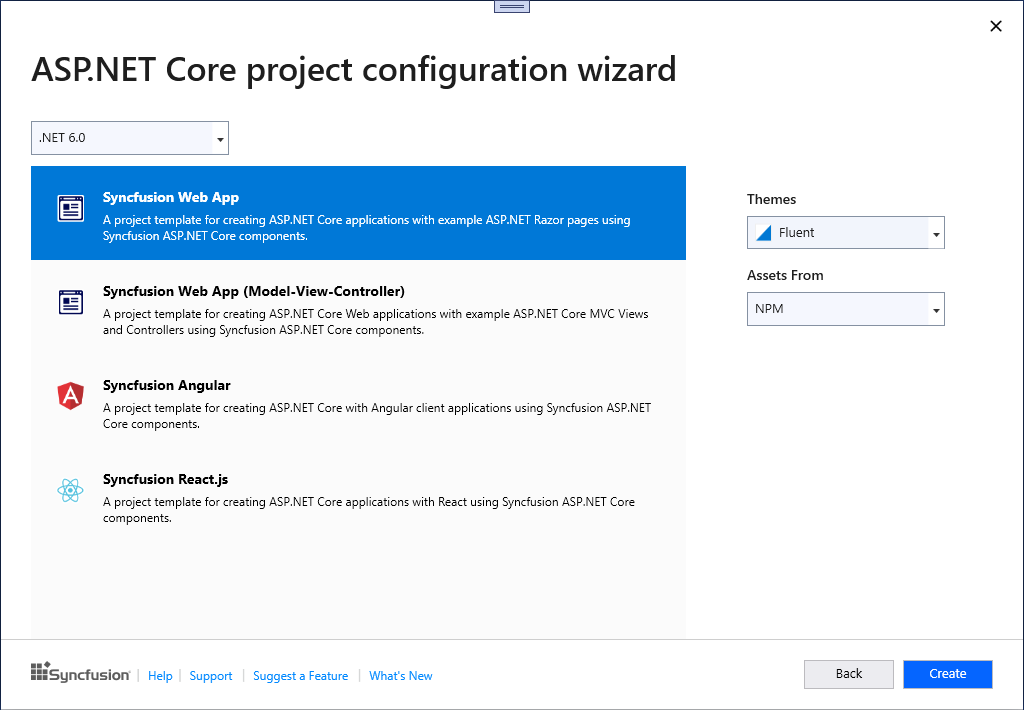
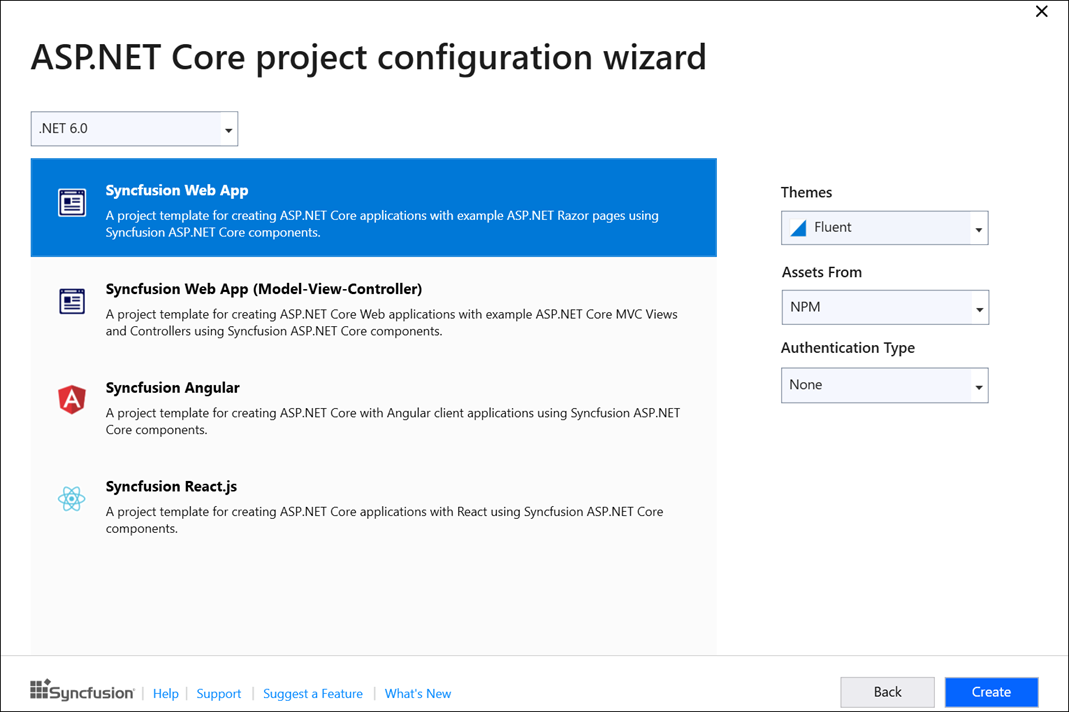
EXT-6719

diff --git a/ej2-asp-core-mvc/EJ2_ASP.NETCORE/visual-studio-integration/create-project.md b/ej2-asp-core-mvc/EJ2_ASP.NETCORE/visual-studio-integration/create-project.md
@@ -71,6 +71,12 @@ The following steps are used to create the **Syncfusion ASP.NET Core (Essential 
 
     ![theme selection](images/themes.png)
 
+    **Authentication Type**: Authentication will be listed out based on the selected project type and choose the required authentication from the available list.
+
+    **Note**: For **Angular** and **React** Project **None** and **Individual Authentication** only supported.
+
+    ![authentication type](images/authentication.png)
+
 4. Click Create, the Syncfusion ASP.NET Core (Essential JS 2) Application has been created.
 
     ![css refernce](images/readme-file.PNG)
@@ -80,3 +86,60 @@ The following steps are used to create the **Syncfusion ASP.NET Core (Essential 
 6. Then, Syncfusion licensing registration required message box will be shown, if you installed the trial setup or NuGet packages since Syncfusion introduced the licensing system from 2018 Volume 2 (v16.2.0.41) Essential Studio release. Navigate to the [help topic](https://help.syncfusion.com/common/essential-studio/licensing/license-key#how-to-generate-syncfusion-license-key), which is shown in the licensing message box to generate and register the Syncfusion license key to your project. Refer to this [blog](https://blog.syncfusion.com/post/whats-new-in-2018-volume-2-licensing-changes-in-the-1620x-version-of-essential-studio.aspx) post for understanding the licensing changes introduced in Essential Studio.
 
     ![syncfusion license](images/syncfusion-license.png)
+
+## Authentication Configuration
+
+We need to register the created application in Azure Active Directory for **Microsoft Identity Platform**. From Azure Active Directory registration, we can get the tenant id and application client id for Microsoft Identity Platform. We need to configure these id values in created applications then only application will be run correctly with authentication support.
+
+### Microsoft Identity Platform Authentication
+
+**Step:1** Go to below Azure Active Directory App Registration page.
+           https://portal.azure.com/#blade/Microsoft_AAD_IAM/ActiveDirectoryMenuBlade/RegisteredApps
+
+**Step:2** Click New Registration in App Registration page.
+
+![AppRegistration](images/AppRegistration.PNG)
+             
+**Step:3** Give name of the application and selected supported type as single tenant.
+
+![SingleTenant](images/SingleTenant.png)
+
+**Step:4** Dropdown the page, select platform as web and give your application Redirect URI like {Redirect URI}/signin-oidc and click Register.
+
+![SelectPlatform](images/SelectPlatform.png)
+
+**Step:5** App will be registered, go to the Authentication page and tick Id token check box.
+
+![IdToken](images/IdToken.png)
+
+**Step:6** Get client tenant id and application id form overview page.
+
+![ClinetTenantId](images/ClientTenantId.png)
+
+
+**Step:7** Configure those client tenant id, application id, and domain in your application appsettings.json file.
+
+![AppSettings](images/appsettings.png)
+
+## Register and Login Application
+
+### Individual Authentication
+
+1. For register the application, submit your email address and create a password.
+
+![Register](images/Register.png)
+
+2. Confirming registration by clicking Click here to confirm your account.
+
+![Confirm](images/Confirm.png)
+
+3.	Submit your registered email address and password to login the application.
+
+![Login](images/Login.png)
+
+### Microsoft Identity Platform
+
+1.	Login to your application using your Microsoft account.
+2.	Accept permission request of your application.
+
+![Permission](images/Permission.png)
